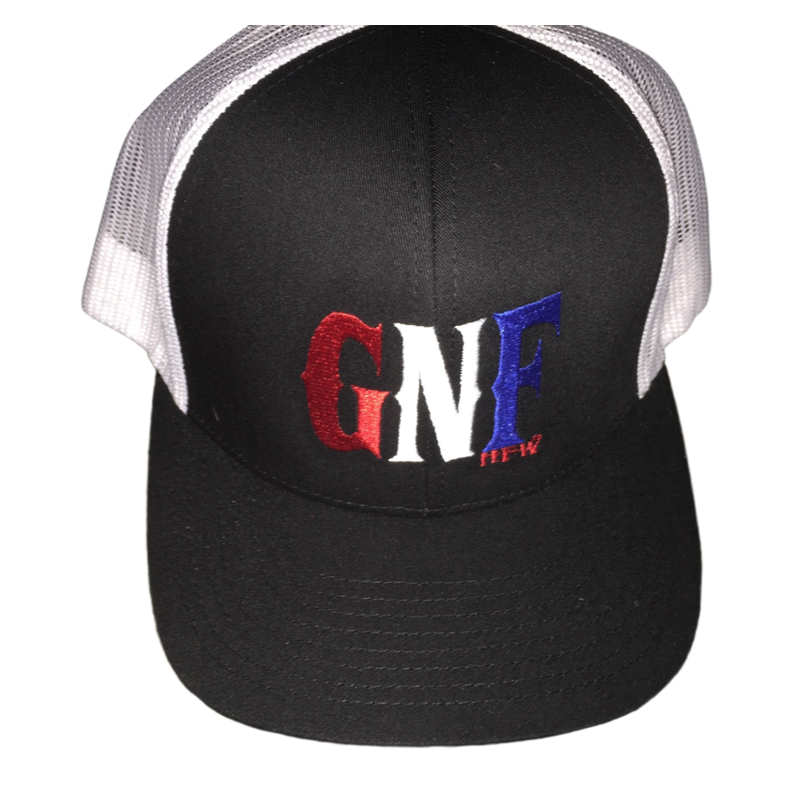
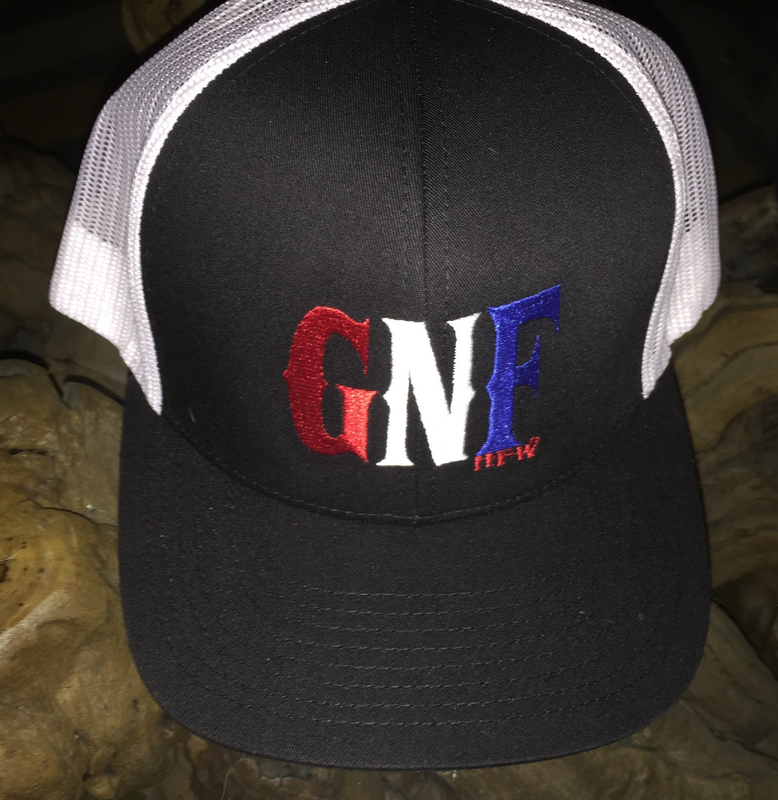
Fix: Remove h6 Hard Hittin hat, restore original hat backgrounds, fix tank back graphics
Changes:
- Removed 'Adjustable Hat - Hard Hittin' (h6) from catalog (12 hats remain)
- Restored all 13 hat images to original Shopify backgrounds (reverted white bg change)
- Fixed women's tank backImages: replaced t-shirt back photos (m*-back) with
  correct graphic designs (d*-back):
  - w1 Fun Ride → d3-back-thump.png (It's A Fun Ride graphic)
  - w2 HFW → d9-back-myob.png (Hillbilly Fight Wear graphic)
  - w3 Thump → d5-back-cockfighter.png (Thump A Stranger graphic)
  - w4 Thumpin → d11-back-community.png (Thumpin' Is Lovin' graphic)
  - w5 Yes You Can → d6-back-hcf.png (Yes, You Can graphic)
  - w6 GNF → d10-back-yesyoucan.png (GNF graphic)

Verified: 134 catalog + 15 index image refs all valid, all routes 200, cart pricing OK

diff --git a/src/data/catalog.ts b/src/data/catalog.ts
@@ -275,12 +275,12 @@ export const mensClothing = [
 // WOMENS CLOTHING - Tank Tops
 // Pink color option is available with garment preview images (pink-tinted variants)
 export const womensClothing = [
-  { id: 'w1', title: "Women's Tank - It's A Fun Ride", vendor: 'Hillbilly Fightwear', price: '$30.00', priceNum: 30, image: '/images/products/web/w1-fun-ride-tank.png', backImage: '/images/products/web/m5-fun-ride-back.png', type: 'garment', garmentType: 'tank-womens', sizes: ['S','M','L','XL'], colors: ['Black','White'], graphicId: 'fun-logo' },
-  { id: 'w2', title: "Women's Tank - HFW", vendor: 'Hillbilly Fightwear', price: '$30.00', priceNum: 30, image: '/images/products/web/w2-hfw-tank.png', backImage: '/images/products/web/m3-hfw-classic-back.png', type: 'garment', garmentType: 'tank-womens', sizes: ['S','M','L','XL'], colors: ['Black','White'], graphicId: 'hfw-logo' },
-  { id: 'w3', title: "Women's Tank - Thump a Stranger", vendor: 'Hillbilly Fightwear', price: '$30.00', priceNum: 30, image: '/images/products/web/w3-thump-tank.png', backImage: '/images/products/web/m8-thump-back.png', type: 'garment', garmentType: 'tank-womens', sizes: ['S','M','L','XL'], colors: ['Black','White'], graphicId: 'thump-a-stranger' },
-  { id: 'w4', title: "Women's Tank - Thumpin Is Lovin", vendor: 'Hillbilly Fightwear', price: '$30.00', priceNum: 30, image: '/images/products/web/w4-thumpin-tank.png', backImage: '/images/products/web/d7-back-thumpin.png', type: 'garment', garmentType: 'tank-womens', sizes: ['S','M','L','XL'], colors: ['Black','White'], graphicId: 'thumpin-is-lovin-pink' },
-  { id: 'w5', title: "Women's Tank - Yes You Can", vendor: 'Hillbilly Fightwear', price: '$30.00', priceNum: 30, image: '/images/products/web/w5-yesyoucan-tank.png', backImage: '/images/products/web/d10-back-yesyoucan.png', type: 'garment', garmentType: 'tank-womens', sizes: ['S','M','L','XL'], colors: ['Black','White'], graphicId: 'yes-you-can' },
-  { id: 'w6', title: "Women's Tank - GNF", vendor: 'Hillbilly Fightwear', price: '$30.00', priceNum: 30, image: '/images/products/web/w6-gnf-tank.png', backImage: '/images/products/web/m6-gnf-back.png', type: 'garment', garmentType: 'tank-womens', sizes: ['S','M','L','XL'], colors: ['Black','White'], graphicId: 'gnf' }
+  { id: 'w1', title: "Women's Tank - It's A Fun Ride", vendor: 'Hillbilly Fightwear', price: '$30.00', priceNum: 30, image: '/images/products/web/w1-fun-ride-tank.png', backImage: '/images/products/web/d3-back-thump.png', type: 'garment', garmentType: 'tank-womens', sizes: ['S','M','L','XL'], colors: ['Black','White'], graphicId: 'fun-logo' },
+  { id: 'w2', title: "Women's Tank - HFW", vendor: 'Hillbilly Fightwear', price: '$30.00', priceNum: 30, image: '/images/products/web/w2-hfw-tank.png', backImage: '/images/products/web/d9-back-myob.png', type: 'garment', garmentType: 'tank-womens', sizes: ['S','M','L','XL'], colors: ['Black','White'], graphicId: 'hfw-logo' },
+  { id: 'w3', title: "Women's Tank - Thump a Stranger", vendor: 'Hillbilly Fightwear', price: '$30.00', priceNum: 30, image: '/images/products/web/w3-thump-tank.png', backImage: '/images/products/web/d5-back-cockfighter.png', type: 'garment', garmentType: 'tank-womens', sizes: ['S','M','L','XL'], colors: ['Black','White'], graphicId: 'thump-a-stranger' },
+  { id: 'w4', title: "Women's Tank - Thumpin Is Lovin", vendor: 'Hillbilly Fightwear', price: '$30.00', priceNum: 30, image: '/images/products/web/w4-thumpin-tank.png', backImage: '/images/products/web/d11-back-community.png', type: 'garment', garmentType: 'tank-womens', sizes: ['S','M','L','XL'], colors: ['Black','White'], graphicId: 'thumpin-is-lovin-pink' },
+  { id: 'w5', title: "Women's Tank - Yes You Can", vendor: 'Hillbilly Fightwear', price: '$30.00', priceNum: 30, image: '/images/products/web/w5-yesyoucan-tank.png', backImage: '/images/products/web/d6-back-hcf.png', type: 'garment', garmentType: 'tank-womens', sizes: ['S','M','L','XL'], colors: ['Black','White'], graphicId: 'yes-you-can' },
+  { id: 'w6', title: "Women's Tank - GNF", vendor: 'Hillbilly Fightwear', price: '$30.00', priceNum: 30, image: '/images/products/web/w6-gnf-tank.png', backImage: '/images/products/web/d10-back-yesyoucan.png', type: 'garment', garmentType: 'tank-womens', sizes: ['S','M','L','XL'], colors: ['Black','White'], graphicId: 'gnf' }
 ]
 
 // KIDS CLOTHING - Youth Hoodie
@@ -295,7 +295,7 @@ export const hats = [
   { id: 'h3', title: 'Fitted Hat - GNF Black', vendor: 'Hillbilly Fightwear', price: '$45.00', priceNum: 45, image: '/images/products/web/h3-gnf-black-fitted.png', type: 'garment', garmentType: 'trucker-hat', sizes: ['S/M','L/XL'], colors: ['Black'] },
   { id: 'h4', title: 'Fitted Hat - Cockfighter', vendor: 'Hillbilly Fightwear', price: '$45.00', priceNum: 45, image: '/images/products/web/h4-cockfighter-fitted.png', type: 'garment', garmentType: 'trucker-hat', sizes: ['S/M','L/XL'], colors: ['Black'] },
   { id: 'h5', title: 'Fitted Hat - HFW', vendor: 'Hillbilly Fightwear', price: '$45.00', priceNum: 45, image: '/images/products/web/h5-hfw-fitted.png', type: 'garment', garmentType: 'trucker-hat', sizes: ['S/M','L/XL'], colors: ['Black'] },
-  { id: 'h6', title: 'Adjustable Hat - Hard Hittin', vendor: 'Hillbilly Fightwear', price: '$35.00', priceNum: 35, image: '/images/products/web/h6-hard-hittin.png', type: 'garment', garmentType: 'trucker-hat', sizes: ['One Size'], colors: ['Black'] },
+  // h6 Hard Hittin hat removed per request
   { id: 'h7', title: 'Adjustable Hat - Fun Ride', vendor: 'Hillbilly Fightwear', price: '$35.00', priceNum: 35, image: '/images/products/web/h7-fun-ride-adj.png', type: 'garment', garmentType: 'trucker-hat', sizes: ['One Size'], colors: ['Black','White'] },
   { id: 'h8', title: 'Adjustable Hat - HFW', vendor: 'Hillbilly Fightwear', price: '$35.00', priceNum: 35, image: '/images/products/web/h8-hfw-adj.png', type: 'garment', garmentType: 'trucker-hat', sizes: ['One Size'], colors: ['Black'] },
   { id: 'h9', title: 'Adjustable Hat - Cockfighter', vendor: 'Hillbilly Fightwear', price: '$35.00', priceNum: 35, image: '/images/products/web/h9-cockfighter-adj.png', type: 'garment', garmentType: 'trucker-hat', sizes: ['One Size'], colors: ['Black'] },
